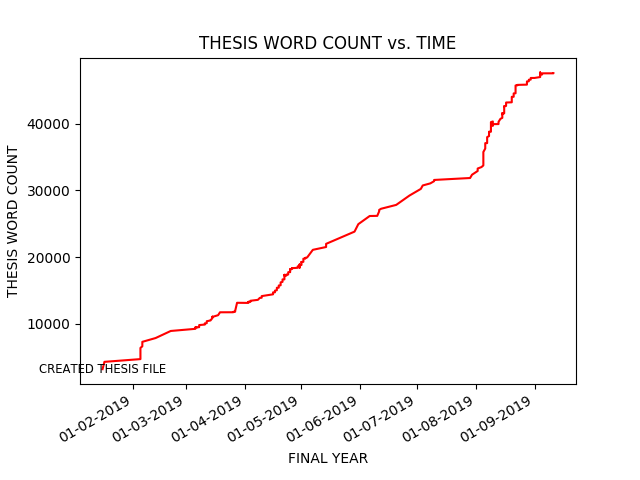
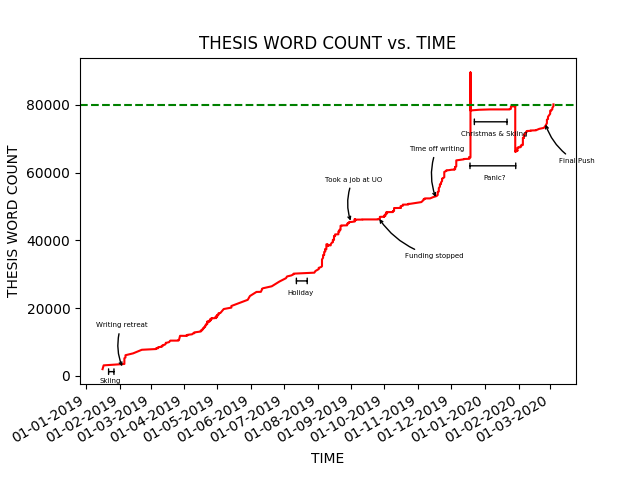
:heart: Readme Updates and new image

diff --git a/README.md b/README.md
@@ -21,6 +21,15 @@ $ pip install -r requirements.txt
 $ ./word_count.sh
 ```
 
+If you only want to incude certain files (e.g., chapter.tex files), replace `*.tex` in git command:
+
+```python
+...
+added=$(git show -p --word-diff=porcelain $commit -- "*abstract.tex" "*chap*.tex" "*introduction.tex" | grep -e '^+[^+]' | wc -w)
+deleted=$(git show -p --word-diff=porcelain $commit -- "*abstract.tex" "*chap*.tex" "*introduction.tex" | grep -e '^-[^-]' | wc -w)
+...
+``` 
+
 ### to set writing goals
 
 To set daily writing goals modify ```$daily_goal``` parameter in ```word_count.sh``` script and use today to run the script.
@@ -35,8 +44,9 @@ To set daily writing goals modify ```$daily_goal``` parameter in ```word_count.s
  ./word_count.sh | ./makegraph.py
 ```
 
-## TODOs/Ideas
+## Annotations coming soon...
 
+## TODOs/Ideas
+- annotations
 - add ignore meta files
-- milestones for graph
 - automatic GIT hooks for making graph
